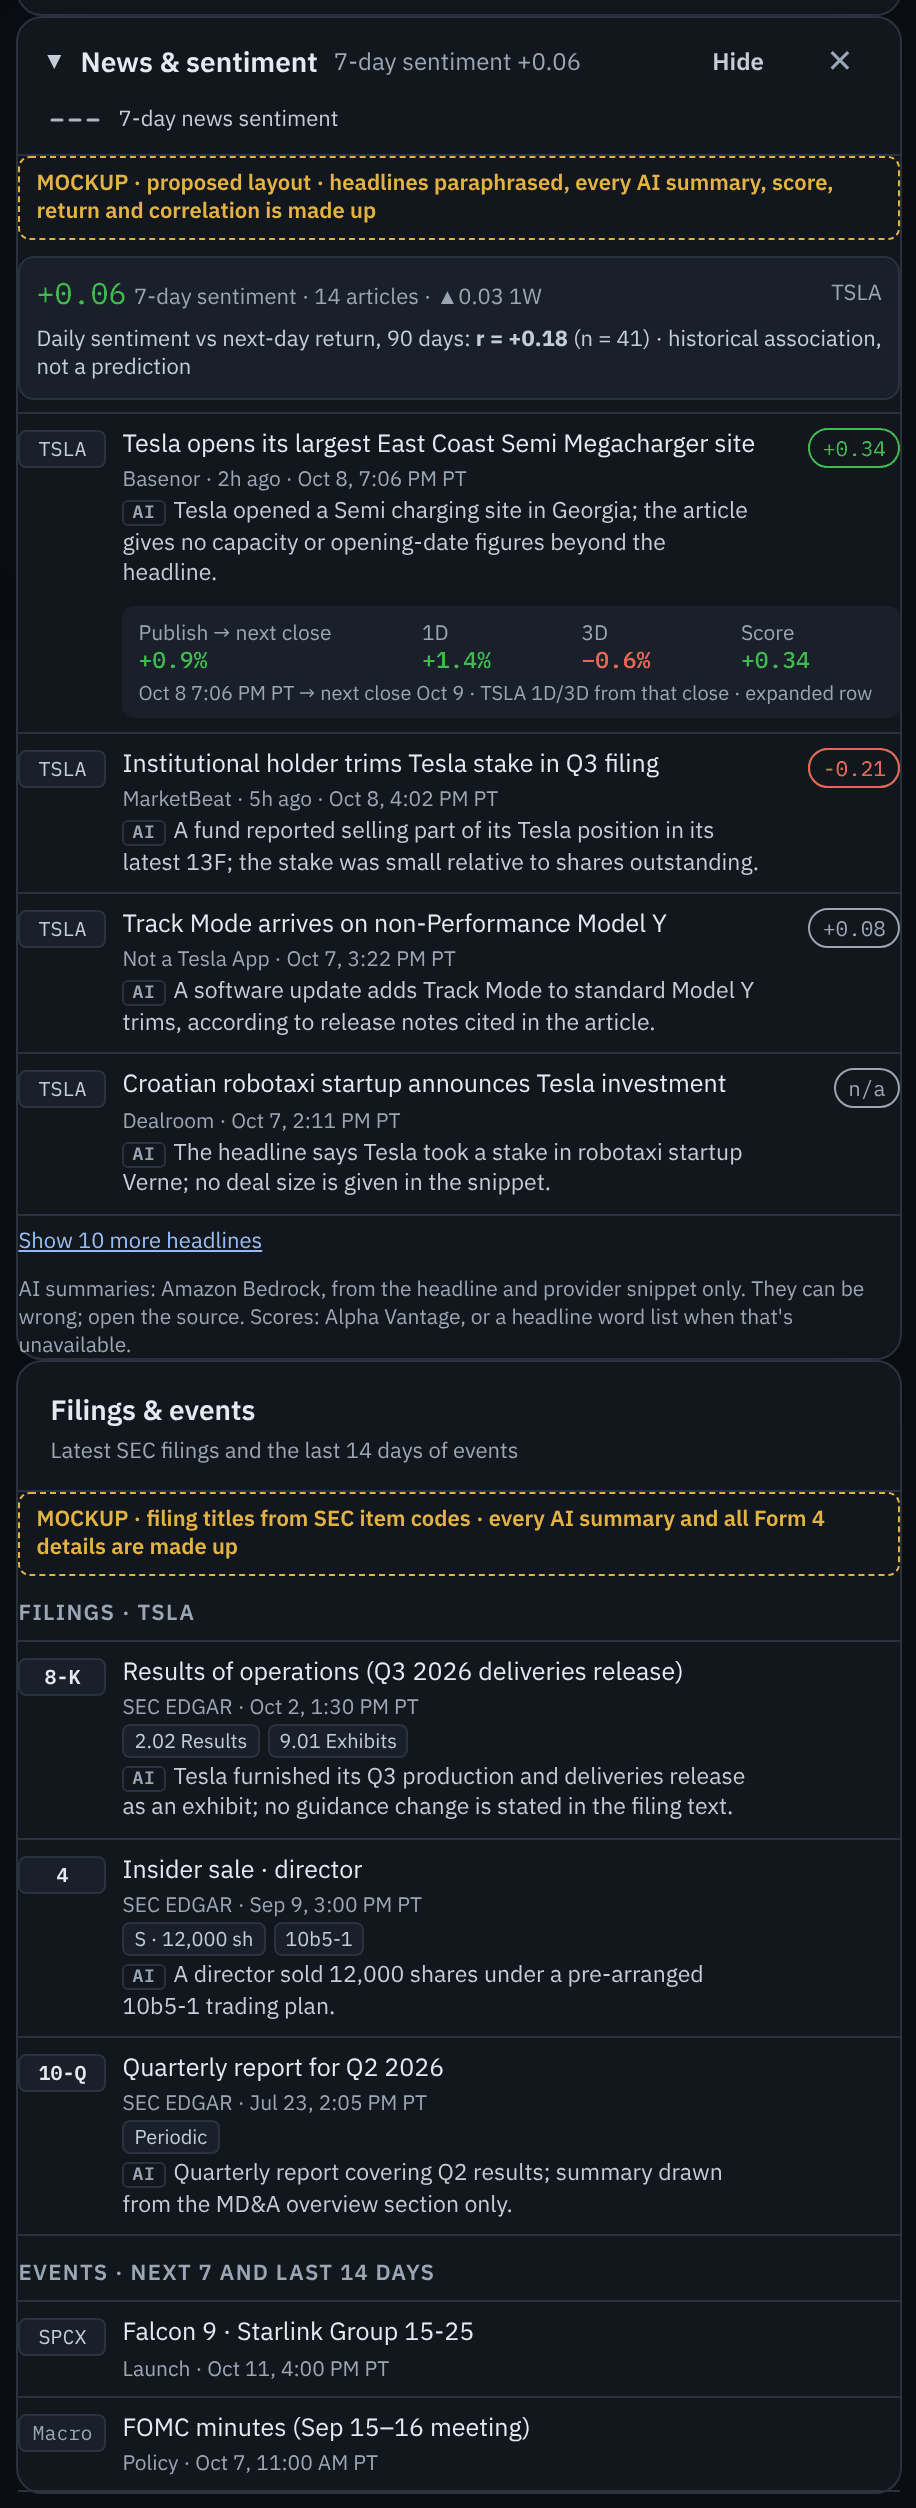
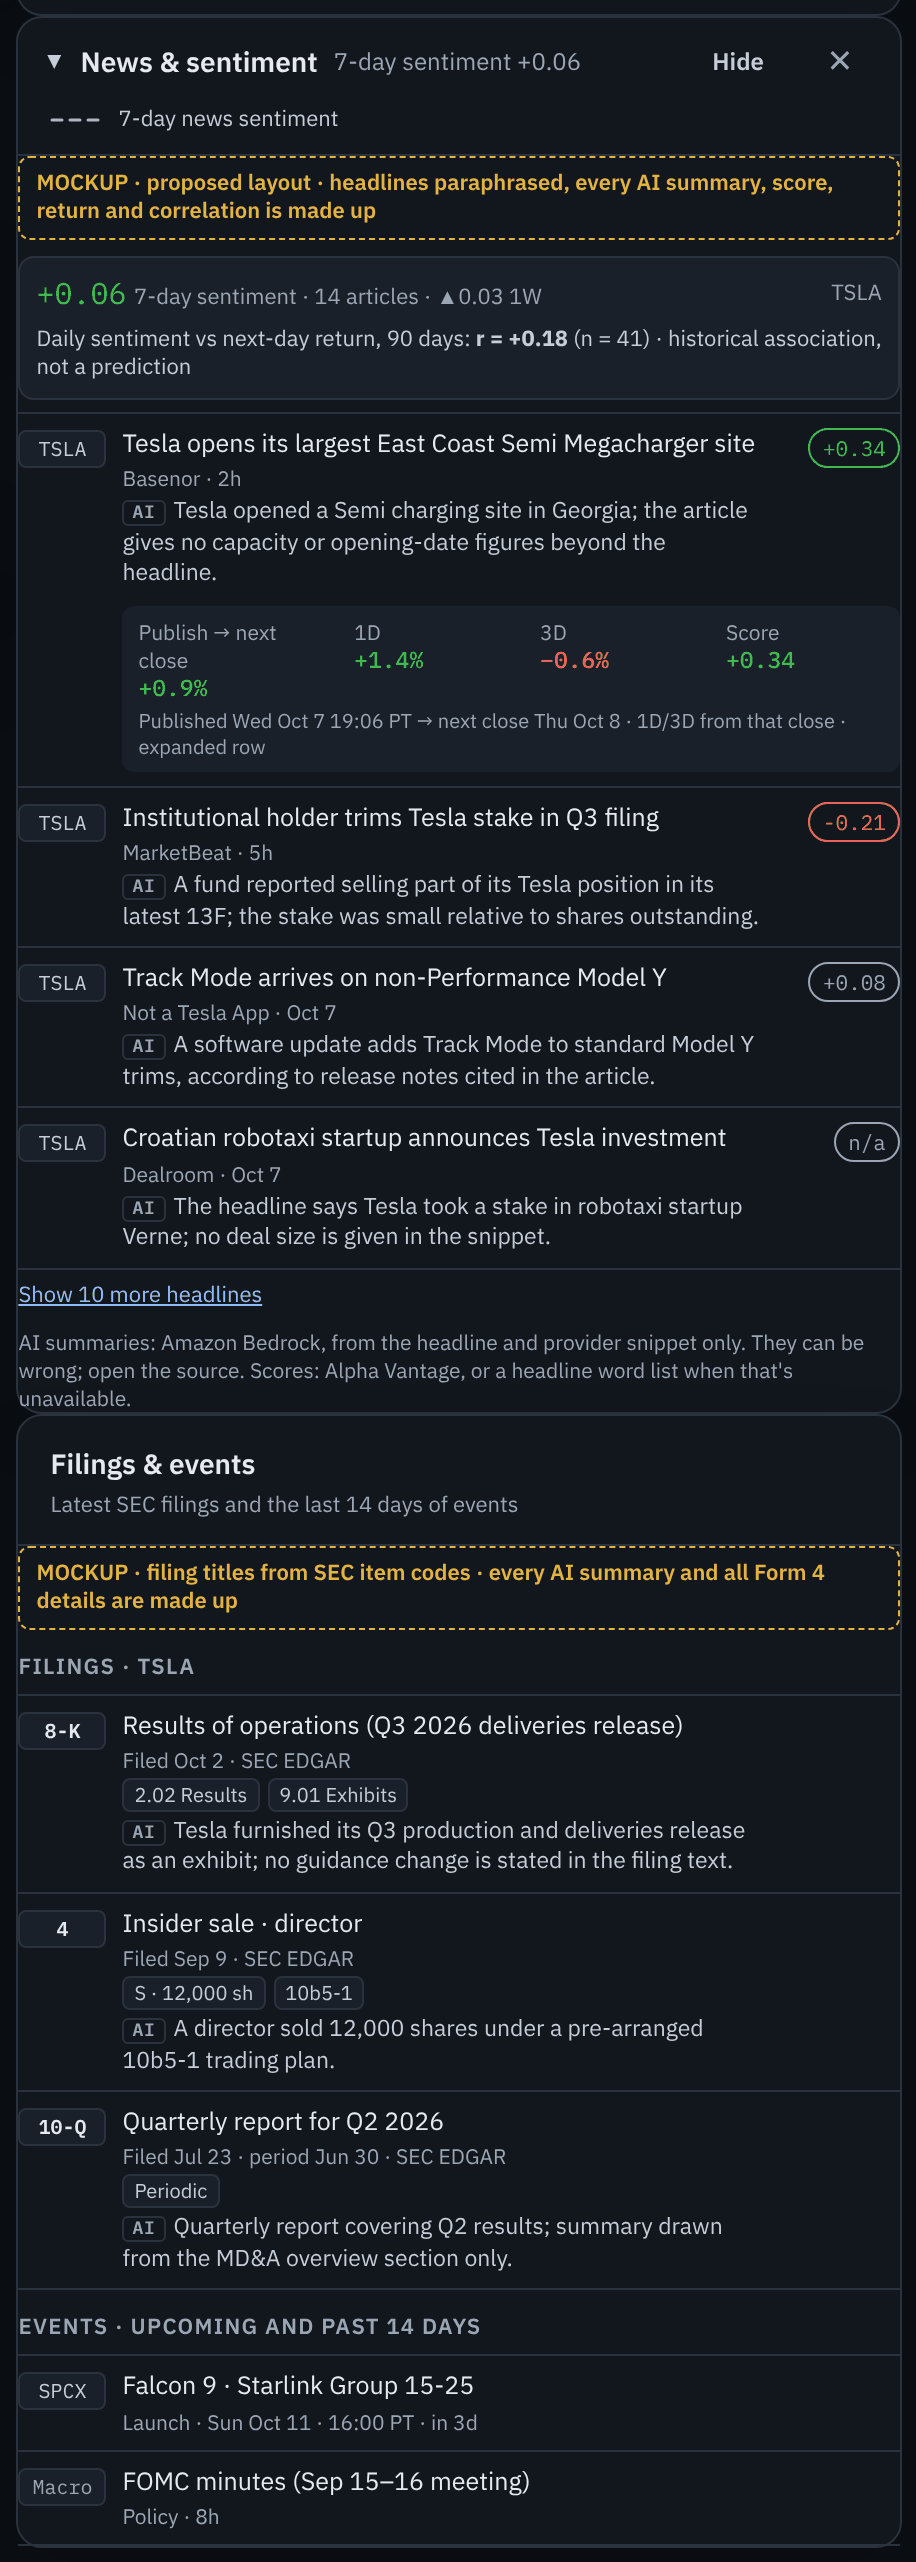
docs: date/format before-after captures; fix design reference times; mockup uses proposed date rules

diff --git a/docs/design-roadmap/news-filings/mock_news.js b/docs/design-roadmap/news-filings/mock_news.js
@@ -30,19 +30,19 @@ const css = `
 document.head.insertAdjacentHTML('beforeend', `<style>${css}</style>`);
 const chip=(v)=>{if(v==null)return '<span class="mk-chip flat">n/a</span>';const c=v>=0.15?'up':v<=-0.15?'down':'flat';return `<span class="mk-chip ${c}">${v>=0?'+':''}${v.toFixed(2)}</span>`};
 const news=[
- {tk:'TSLA',t:'Tesla opens its largest East Coast Semi Megacharger site',src:'Basenor',when:'2h ago · Oct 8, 7:06 PM PT',s:0.34,ai:'Tesla opened a Semi charging site in Georgia; the article gives no capacity or opening-date figures beyond the headline.',react:{pub:'+0.9%',d1:'+1.4%',d3:'−0.6%',note:'Oct 8 7:06 PM PT → next close Oct 9 · TSLA 1D/3D from that close'}},
- {tk:'TSLA',t:'Institutional holder trims Tesla stake in Q3 filing',src:'MarketBeat',when:'5h ago · Oct 8, 4:02 PM PT',s:-0.21,ai:'A fund reported selling part of its Tesla position in its latest 13F; the stake was small relative to shares outstanding.'},
- {tk:'TSLA',t:'Track Mode arrives on non-Performance Model Y',src:'Not a Tesla App',when:'Oct 7, 3:22 PM PT',s:0.08,ai:'A software update adds Track Mode to standard Model Y trims, according to release notes cited in the article.'},
- {tk:'TSLA',t:'Croatian robotaxi startup announces Tesla investment',src:'Dealroom',when:'Oct 7, 2:11 PM PT',s:null,ai:'The headline says Tesla took a stake in robotaxi startup Verne; no deal size is given in the snippet.'},
+ {tk:'TSLA',t:'Tesla opens its largest East Coast Semi Megacharger site',src:'Basenor',when:'2h',s:0.34,ai:'Tesla opened a Semi charging site in Georgia; the article gives no capacity or opening-date figures beyond the headline.',react:{pub:'+0.9%',d1:'+1.4%',d3:'−0.6%',note:'Published Wed Oct 7 19:06 PT → next close Thu Oct 8 · 1D/3D from that close'}},
+ {tk:'TSLA',t:'Institutional holder trims Tesla stake in Q3 filing',src:'MarketBeat',when:'5h',s:-0.21,ai:'A fund reported selling part of its Tesla position in its latest 13F; the stake was small relative to shares outstanding.'},
+ {tk:'TSLA',t:'Track Mode arrives on non-Performance Model Y',src:'Not a Tesla App',when:'Oct 7',s:0.08,ai:'A software update adds Track Mode to standard Model Y trims, according to release notes cited in the article.'},
+ {tk:'TSLA',t:'Croatian robotaxi startup announces Tesla investment',src:'Dealroom',when:'Oct 7',s:null,ai:'The headline says Tesla took a stake in robotaxi startup Verne; no deal size is given in the snippet.'},
 ];
 const filings=[
- {form:'8-K',title:'Results of operations (Q3 2026 deliveries release)',when:'Oct 2, 1:30 PM PT',items:['2.02 Results','9.01 Exhibits'],ai:'Tesla furnished its Q3 production and deliveries release as an exhibit; no guidance change is stated in the filing text.'},
- {form:'4',title:'Insider sale · director',when:'Sep 9, 3:00 PM PT',items:['S · 12,000 sh','10b5-1'],ai:'A director sold 12,000 shares under a pre-arranged 10b5-1 trading plan.'},
- {form:'10-Q',title:'Quarterly report for Q2 2026',when:'Jul 23, 2:05 PM PT',items:['Periodic'],ai:'Quarterly report covering Q2 results; summary drawn from the MD&A overview section only.'},
+ {form:'8-K',title:'Results of operations (Q3 2026 deliveries release)',when:'Filed Oct 2',items:['2.02 Results','9.01 Exhibits'],ai:'Tesla furnished its Q3 production and deliveries release as an exhibit; no guidance change is stated in the filing text.'},
+ {form:'4',title:'Insider sale · director',when:'Filed Sep 9',items:['S · 12,000 sh','10b5-1'],ai:'A director sold 12,000 shares under a pre-arranged 10b5-1 trading plan.'},
+ {form:'10-Q',title:'Quarterly report for Q2 2026',when:'Filed Jul 23 · period Jun 30',items:['Periodic'],ai:'Quarterly report covering Q2 results; summary drawn from the MD&A overview section only.'},
 ];
 const events=[
- {tk:'SPCX',t:'Falcon 9 · Starlink Group 15-25',when:'Oct 11, 4:00 PM PT',type:'Launch'},
- {tk:'Macro',t:'FOMC minutes (Sep 15–16 meeting)',when:'Oct 7, 11:00 AM PT',type:'Policy'},
+ {tk:'SPCX',t:'Falcon 9 · Starlink Group 15-25',when:'Sun Oct 11 · 16:00 PT · in 3d',type:'Launch'},
+ {tk:'Macro',t:'FOMC minutes (Sep 15–16 meeting)',when:'8h',type:'Policy'},
 ];
 const panels=[...document.querySelectorAll('main section.panel')];
 const np=panels.find(p=>/News & sentiment/.test(p.querySelector('h2,summary')?.textContent||''));
@@ -63,8 +63,8 @@ if(fp){
  fp.insertAdjacentHTML('beforeend',`
  <p class="mk-banner">MOCKUP · filing titles from SEC item codes · every AI summary and all Form 4 details are made up</p>
  <p class="mk-sub">Filings · TSLA</p>
- <ul class="mk-list">${filings.map(f=>`<li class="mk-row"><span class="mk-tag form">${f.form}</span><span class="mk-body"><a class="mk-title" href="#">${f.title}</a><span class="mk-meta">SEC EDGAR · ${f.when}</span><span class="mk-items">${f.items.map(x=>`<span>${x}</span>`).join('')}</span><span class="mk-ai"><b>AI</b>${f.ai}</span></span><span></span></li>`).join('')}</ul>
- <p class="mk-sub">Events · next 7 and last 14 days</p>
+ <ul class="mk-list">${filings.map(f=>`<li class="mk-row"><span class="mk-tag form">${f.form}</span><span class="mk-body"><a class="mk-title" href="#">${f.title}</a><span class="mk-meta">${f.when} · SEC EDGAR</span><span class="mk-items">${f.items.map(x=>`<span>${x}</span>`).join('')}</span><span class="mk-ai"><b>AI</b>${f.ai}</span></span><span></span></li>`).join('')}</ul>
+ <p class="mk-sub">Events · upcoming and past 14 days</p>
  <ul class="mk-list">${events.map(e=>`<li class="mk-row"><span class="mk-tag ${e.tk==='Macro'?'macro':''}">${e.tk}</span><span class="mk-body"><span class="mk-title">${e.t}</span><span class="mk-meta">${e.type} · ${e.when}</span></span><span></span></li>`).join('')}</ul>`);
 }
 return {np:!!np, fp:!!fp};

diff --git a/docs/design-roadmap/news-filings/mock_dates.js b/docs/design-roadmap/news-filings/mock_dates.js
@@ -1,0 +1,51 @@
+(() => {
+const B = (rows) => rows.map(r => `<li class="news-item">${r[0]?`<span class="news-title">${r[0]}</span>`:''}<p class="news-meta">${r[1]}</p></li>`).join('');
+const A = (rows) => rows.map(r => `<li class="dt-row"><span class="dt-tag">${r[0]}</span><span class="dt-body"><span class="dt-title">${r[1]}</span><span class="dt-meta">${r[2]}</span></span><span class="dt-when" title="${r[4]||''}">${r[3]}</span></li>`).join('');
+const css = `
+.dt-wrap{display:grid;grid-template-columns:1fr 1fr;gap:16px;padding:16px;background:var(--page);width:940px;box-sizing:border-box}
+.dt-col{background:var(--surface);border:1px solid var(--line);border-radius:10px;padding:12px 14px}
+.dt-col h3{margin:0 0 2px;font-size:12px;letter-spacing:.06em;text-transform:uppercase;color:var(--text)}
+.dt-col .dt-note{margin:0 0 8px;font-size:10.5px;color:var(--amber)}
+.dt-sub{margin:10px 0 2px;font-size:10.5px;font-weight:600;letter-spacing:.06em;text-transform:uppercase;color:var(--muted)}
+.dt-col ul{list-style:none;margin:0;padding:0;border-top:1px solid var(--line)}
+.dt-row{display:grid;grid-template-columns:44px minmax(0,1fr) auto;gap:8px;padding:6px 0;border-bottom:1px solid var(--line);align-items:center}
+.dt-tag{font-family:"IBM Plex Mono",monospace;font-size:10px;padding:2px 4px;border-radius:4px;background:var(--surface-raised);border:1px solid var(--line);color:var(--secondary);text-align:center}
+.dt-body{display:grid;gap:1px;min-width:0}
+.dt-title{font-size:12px;color:var(--text);white-space:nowrap;overflow:hidden;text-overflow:ellipsis}
+.dt-meta{font-size:10.5px;color:var(--muted)}
+.dt-when{font-family:"IBM Plex Mono",monospace;font-size:10.5px;color:var(--secondary);text-align:right;white-space:nowrap}
+.dt-col .news-item{padding:6px 0}
+.dt-col .news-title{font-size:12px}
+`;
+const before = `<h3>Before · main today</h3><p class="dt-note">Real Oct 7, 2026 snapshot, as the app renders it</p>
+<p class="dt-sub">News & sentiment</p><ul class="news-list">${B([
+['Tesla Opens First East Coast Semi Megacharger in Georgia - BASENOR','BASENOR · 2026-10-08T02:06:20+00:00 · neutral'],
+['4 charged after pineapple thrown at moving Tesla - WHIO TV','WHIO TV · 2026-10-08T00:18:00+00:00 · neutral'],
+['Cooper Financial Group Cuts Stake in Tesla, Inc. $TSLA - MarketBeat','MarketBeat · 2026-10-07T23:44:33+00:00 · neutral']])}</ul>
+<p class="dt-sub">Filings</p><ul class="news-list">${B([
+['8-K · 8-K','2026-10-02 · earnings'],['4 · OWNERSHIP DOCUMENT','2026-09-09 · insider'],['10-Q · 10-Q','2026-07-23 · periodic']])}</ul>
+<p class="dt-sub">Events ("last 14 days")</p><ul class="news-list">${B([
+['Falcon 9 Block 5 | Bandwagon 5 (Dedicated Mid-Inclination Rideshare)','2026-10-31T00:00:00Z · launch'],
+['Falcon 9 Block 5 | Starlink Group 15-25','2026-10-11T23:00:00Z · launch'],
+['Falcon 9 Block 5 | SDA Tranche 1 Transport Layer A','2026-10-10T07:29:00Z · launch'],
+['Minutes of the Federal Open Market Committee, September 15-16, 2026','2026-10-07T18:00:00+00:00 · other']])}</ul>`;
+const after = `<h3>After · proposed rules</h3><p class="dt-note">Same items, now = snapshot time (Wed Oct 7, 19:15 PT), time zone PT from Profile. Filing titles derived from filing_class and the period in the filename.</p>
+<p class="dt-sub">News & sentiment</p><ul>${A([
+['TSLA','Tesla Opens First East Coast Semi Megacharger in Georgia','BASENOR','9m','Wed, Oct 7, 2026, 19:06 PT'],
+['TSLA','4 charged after pineapple thrown at moving Tesla','WHIO TV','1h','Wed, Oct 7, 2026, 17:18 PT'],
+['TSLA','Cooper Financial Group Cuts Stake in Tesla, Inc. $TSLA','MarketBeat','2h','Wed, Oct 7, 2026, 16:44 PT']])}</ul>
+<p class="dt-sub">Filings · TSLA</p><ul>${A([
+['8-K','Results of operations (Item 2.02)','SEC EDGAR','Oct 2','Filed Fri, Oct 2, 2026'],
+['4','Insider transaction','SEC EDGAR','Sep 9','Filed Wed, Sep 9, 2026'],
+['10-Q','Quarterly report · period ended Jun 30','SEC EDGAR','Jul 23','Filed Thu, Jul 23, 2026 · period Jun 30, 2026']])}</ul>
+<p class="dt-sub">Upcoming</p><ul>${A([
+['SPCX','Falcon 9 · SDA Tranche 1 Transport Layer A','Launch · Sat Oct 10 · 00:29 PT','in 3d','Sat, Oct 10, 2026, 00:29 PT'],
+['SPCX','Falcon 9 · Starlink Group 15-25','Launch · Sun Oct 11 · 16:00 PT','in 4d','Sun, Oct 11, 2026, 16:00 PT'],
+['SPCX','Falcon 9 · Bandwagon 5 (Rideshare)','Launch · Sat Oct 31 · time TBD','in 24d','Sat, Oct 31, 2026 (date only, no time)']])}</ul>
+<p class="dt-sub">Past 14 days</p><ul>${A([
+['Macro','FOMC minutes (Sep 15–16 meeting)','Policy · Federal Reserve','8h','Wed, Oct 7, 2026, 11:00 PT']])}</ul>`;
+document.head.insertAdjacentHTML('beforeend', `<style>${css}</style>`);
+document.body.innerHTML = `<div class="dt-wrap" id="dt"><div class="dt-col">${before}</div><div class="dt-col">${after}</div></div>`;
+document.body.style.margin='0';
+return true;
+})()

diff --git a/docs/design-roadmap/news-filings/design-ref.html b/docs/design-roadmap/news-filings/design-ref.html
@@ -2,7 +2,7 @@
 body{margin:0;background:#0B0E13;font-family:"IBM Plex Sans",system-ui,sans-serif;color:#E6EAF0;padding:16px;width:440px}
 .note{font-size:11px;color:#E3C05C;margin:0 0 8px}
 </style></head><body>
-<p class="note">DESIGN REFERENCE: re-rendered from design/ai-generated/Main.dc.html lines 426–440 (TSLA, sentiment overlay on). Headlines/scores are the design's own placeholders; sparkline path approximated.</p>
+<p class="note">DESIGN REFERENCE: re-rendered from design/ai-generated/Main.dc.html lines 426–440 (TSLA, sentiment overlay on). Headlines/scores are the design's own placeholders; sparkline path approximated. Row times use the design's tm(4, m) helper in PT.</p>
 <section style="min-width:0;background:#12161D;border:1px solid #222A35;border-radius:10px;padding:14px;display:flex;flex-direction:column;gap:8px">
 <div style="display:flex;align-items:baseline;justify-content:space-between;gap:8px"><h2 style="margin:0;font-size:12px;font-weight:600;letter-spacing:.08em;text-transform:uppercase;color:#9BA6B5">TSLA news sentiment</h2><span style="display:flex;align-items:center;gap:8px"><span style="font-size:10px;color:#8B96A6">H2 · 7-day rolling</span><span style="width:16px;height:0;border-top:2px dashed #A78BFA"></span><button style="width:26px;height:26px;border-radius:6px;border:1px solid #2A323E;background:transparent;color:#9BA6B5">✕</button></span></div>
 <div style="display:grid;grid-template-columns:minmax(0,1fr) 120px;gap:10px;align-items:center">
@@ -11,8 +11,8 @@ body{margin:0;background:#0B0E13;font-family:"IBM Plex Sans",system-ui,sans-seri
 <div style="display:flex;flex-direction:column;border-top:1px solid #1A2029" id="rows"></div>
 </section>
 <script>
-const rows=[['TSLA','[Headline · Finnhub company news]','Finnhub','9:42 AM',0.31],['TSLA','[Headline · Google News RSS: Robotaxi]','Google News','6:80 → 7:20 AM',null],['TSLA','[Headline · Alpha Vantage NEWS_SENTIMENT]','Alpha Vantage','6:00 AM',-0.12]];
-rows[1][3]='7:20 AM';
+// age = tm(4, minutes) at Main.dc.html:1472 with tz = 'PT' (line 879): weekday + 24h clock, no date
+const rows=[['TSLA','[Headline · Finnhub company news]','Finnhub','Fri 12:42',0.31],['TSLA','[Headline · Google News RSS: Robotaxi]','Google News','Fri 08:20',null],['TSLA','[Headline · Alpha Vantage NEWS_SENTIMENT]','Alpha Vantage','Fri 07:00',-0.12]];
 for(const r of rows){const s=r[4]==null?'n/a':(r[4]>=0?'+':'')+r[4].toFixed(2);const c=r[4]==null?'#8B96A6':(r[4]>=0?'#3FB950':'#F85149');
 document.getElementById('rows').insertAdjacentHTML('beforeend',`<a style="display:grid;grid-template-columns:44px minmax(0,1fr) 46px;gap:8px;align-items:center;padding:5px 0;border-bottom:1px solid #1A2029;text-decoration:none;color:#E6EAF0"><span style="font-family:'IBM Plex Mono',monospace;font-size:10px;padding:2px 4px;border-radius:4px;background:#1C232D;color:#C5CDD8;text-align:center">${r[0]}</span><span style="display:flex;flex-direction:column;min-width:0"><span style="font-size:12px;white-space:nowrap;overflow:hidden;text-overflow:ellipsis">${r[1]}</span><span style="font-size:10px;color:#8B96A6">${r[2]} · ${r[3]}</span></span><span style="font-family:'IBM Plex Mono',monospace;font-size:11px;text-align:right;color:${c}">${s}</span></a>`)}
 </script></body></html>

diff --git a/docs/design-roadmap/news-filings/README.md b/docs/design-roadmap/news-filings/README.md
@@ -7,9 +7,10 @@ Supporting images for the News & sentiment / Filings & events theme, AI summary 
 | `current-industrial-dark-1440.png`, `current-clean-light-1440.png` | Both side-column panels as they render on `main` (9436287) at 1440px, sentiment overlay on, drawer open | Real production snapshot from Oct 7, 2026 (TSLA) |
 | `current-industrial-dark-390-more.png`, `current-clean-light-390-more.png` | The same panels on the mobile **More** tab at 390px | Same snapshot |
 | `current-six-themes-1440.png` | News panel top in all six themes (half scale) | Same snapshot |
-| `design-news-reference.png` | The design's "TSLA news sentiment" panel, re-rendered from `design/ai-generated/Main.dc.html` lines 426–440 (the PNG artboards don't include this panel) | The design's own placeholders; sparkline path approximated |
+| `design-news-reference.png` | The design's "TSLA news sentiment" panel, re-rendered from `design/ai-generated/Main.dc.html` lines 426–440 (the PNG artboards don't include this panel) | The design's own placeholders; sparkline path approximated; row times come from the design's `tm()` helper in PT (`Fri 12:42`) |
 | `mockup-industrial-dark-1440.png`, `mockup-clean-light-1440.png`, `mockup-industrial-dark-390-more.png` | **MOCKUP** of the proposed item rows (ticker tag, source · PT time, sentiment chip, AI summary, expanded price-reaction row, filing item chips, events split out) injected into the running app so it uses the real theme tokens | **Made up**: headlines are paraphrased and every AI summary, score, return, correlation and Form 4 detail is invented |
+| `dates-before-after-industrial-dark.png`, `dates-before-after-clean-light.png` | Before/after for the readable data and date rules: left is what `main` renders, right is the same items formatted with the proposed rules (now = Wed Oct 7 19:15 PT, zone PT) | Real Oct 7 snapshot. Filing titles are derived from `filing_class` and the period date in the filename. Nothing is made up |
 | `mockup-six-themes-1440.png` | The mockup in all six themes (half scale); chips follow the up/down palette (blue/orange in colorblind-hc) | Made up, as above |
 
-`mock_news.js` is the injected mockup (it only uses existing CSS variables) and `design-ref.html` is the static design re-render.
+`mock_dates.js` builds the before/after image. `mock_news.js` is the injected mockup (it only uses existing CSS variables) and `design-ref.html` is the static design re-render.
 Captures come from a Playwright harness that serves `apps/web` with mocked `/dashboard`, `/prefs`, `/status` and `/chart` responses at device scale factor 2.
